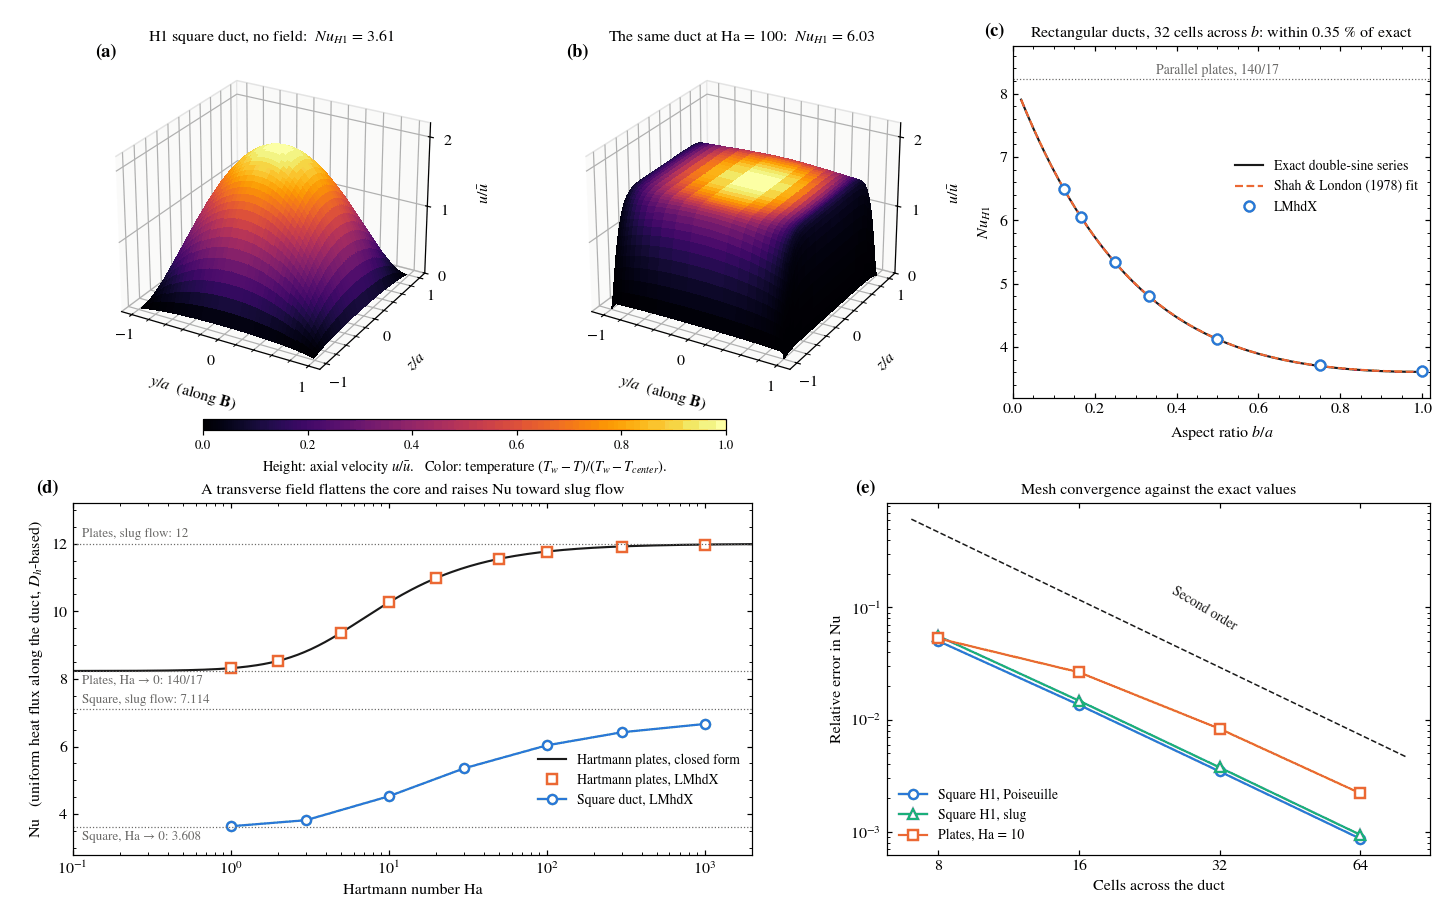
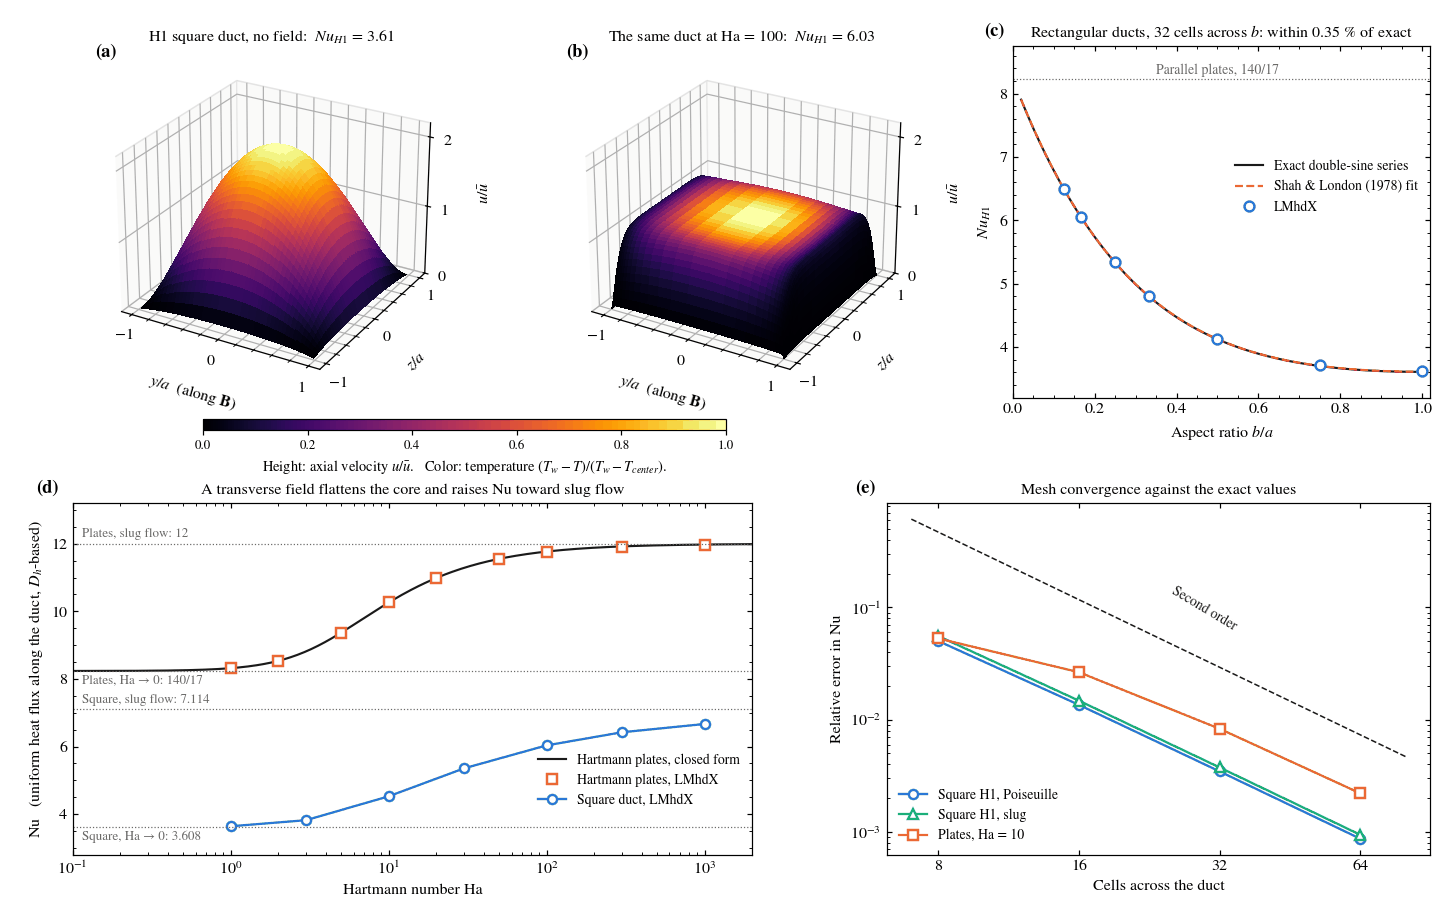
Showcase: the plotted velocity over its area-weighted mean; the onset's field not immune to the stage defect (review)
The developed figure's surfaces plotted u / np.mean(u) under a u/u-bar
label, an unweighted mean over cells whose areas differ 1800-fold across
the layers. They now use Q/A, the area-weighted mean, and the script
checks that the normalized field's weighted mean is one. Nu is unchanged,
and so is the figure's record; the figure is regenerated.

The docs said the onset runs were clear of the stabilised step's defect
because the field is vertical. The hydrostatic base is kept, but the
perturbations' finite-step values are not: a trial with a corrected
stage moved Q = 1000's onset at dt0 from 4.5 % to 0.8 % low, the
extrapolated values by under 0.1 %. The docs say so, and that the
figure is regenerated once the corrected step is merged.

Changed region(s): [[0.4029, 0.1515, 0.6198, 0.3333]]

diff --git a/scripts/make_showcase_figures.py b/scripts/make_showcase_figures.py
@@ -452,9 +452,13 @@ def thermal_developed() -> None:
         for index, (hartmann, title) in enumerate(views.items()):
             result, velocity = squares[hartmann]
             theta, u = np.asarray(result.temperature.data)[0], np.asarray(velocity[0].data)[0]
+            areas = np.asarray(velocity[0].grid.face_areas(0))[0]
+            # The area-weighted mean, Q/A: an unweighted one on the layer-resolving cells was not u's mean.
+            bulk = np.sum(areas * u) / np.sum(areas)
+            assert abs(np.sum(areas * u / bulk) / np.sum(areas) - 1.0) < 1e-12
             axis = _axes_3d(fig, top[index], labels, (26, -60))
             mesh = np.meshgrid(*result.temperature.grid.centers[1:], indexing="ij")
-            _paint(axis, *mesh, u / np.mean(u), plt.get_cmap("inferno")(theta / np.min(theta)))
+            _paint(axis, *mesh, u / bulk, plt.get_cmap("inferno")(theta / np.min(theta)))
             axis.set(zlim=(0.0, 2.2), zticks=[0, 1, 2])
             axis.set_title(f"{title}:  $Nu_{{H1}}$ = {float(result.nusselt):.2f}", pad=0)
             _panel(axis, "ab"[index])

diff --git a/scripts/audit_architecture.py b/scripts/audit_architecture.py
@@ -251,7 +251,7 @@ def build_inventory(root: Path = ROOT) -> dict[str, Any]:
             "maintenance_script_count_max": 4,
             "stable_root_exports_max": 29,
             "curated_examples_max": 8,
-            "checkout_bytes_max": 3128101,
+            "checkout_bytes_max": 3130390,
             "root_import_median_seconds_max": 0.25,
             "sdist_bytes_max": 512 * 1024,
             "wheel_bytes_max": 384 * 1024,

diff --git a/docs/physics/thermal.md b/docs/physics/thermal.md
@@ -593,10 +593,16 @@ for $Q\le100$ (as quoted by Basak & Kumar 2015) within 0.01 %; the tests gate
 that. The onset converges at first order in the step; extrapolated, it lands
 within 0.9 % of the reference over the tenfold rise of $Ra_c$. That sweep is
 regenerated by the figure script, not gated; the tests gate the Bénard onset at
-$Q=0$ within 4 % of 1707.76. These are transient runs: the field is vertical,
-along gravity, not along $y$, where the stabilised transient step is known not
-to keep a pressure-balanced state at rest, and the two time steps and their
-extrapolation are recorded here.
+$Q=0$ within 4 % of 1707.76.
+
+These are transient runs of the stabilised momentum step, which damps each
+velocity component without matching its pressure correction.
+- With the field vertical, the hydrostatic state at rest is kept.
+- The perturbations' finite-step values are not immune, though. In a trial with
+  a corrected stage, Q = 1000's onset at $\Delta t_0$ moved from 4.5 % to 0.8 %
+  low, and the extrapolated values by under 0.1 %.
+- The two time steps and their extrapolation are recorded here. The figure is
+  regenerated once the corrected step is merged; Q = 0 does not change.
 
 ```{image} ../_static/thermal_magnetoconvection.webp
 :alt: Critical Rayleigh number against the Chandrasekhar number, the critical rolls at Q = 0 and 1000, and the error against the time step
